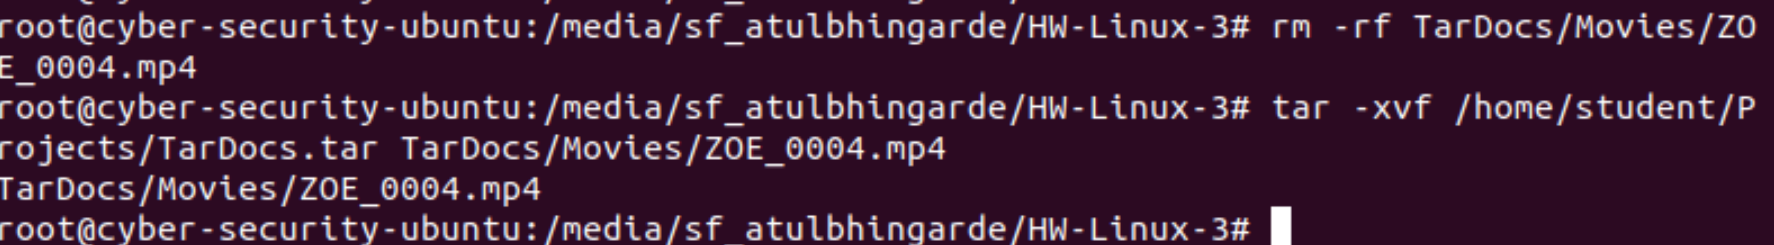
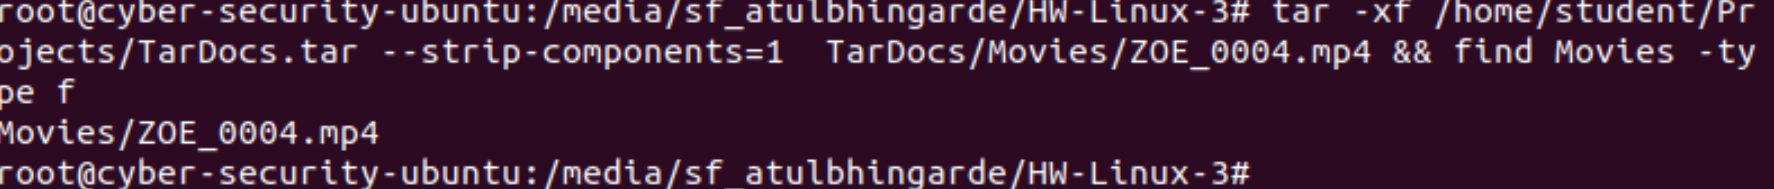
added few

diff --git a/Instructions/README.md b/Instructions/README.md
@@ -46,9 +46,11 @@ Work through the exercises below to understand `--strip-components`.
   - Use `--strip-components` to extract the `Movies` directory.
 	       _**assuming that the Movies directory needs to be extracted without TarDocs*_
         `tar -xvf /home/student/Projects/TarDocs.tar TarDocs/Movies --strip-components=1 && find Movies` 
-        ![tar command to extract movies folder without TarDocsÍ](extract_movies_folder.png)
+        ![tar command to extract movies folder without TarDocs](extract_movies_folder.png)
 
   - Use `--strip-components` to extract the `Movies/ZOE_0004.mp4` file.
+        `tar -xf /home/student/Projects/TarDocs.tar --strip-components=1  TarDocs/Movies/ZOE_0004.mp4  && find Movies -type f`
+        ![tar command to extract movies folder without TarDocs](extract_only_onefile.png)
 
 #### Modifying Archives
 You will often find yourself needing to add, remove, or update files from an existing tarball.

diff --git a/Instructions/Submission.md b/Instructions/Submission.md
@@ -7,7 +7,7 @@
   ![tar command to extract fles](extract_movies.png)
 
   - Extract `Movies/ZOE_0004.mp4`: `your command here`
-  ![tar command to extract only one file](extract_only_onefile.png)
+  ![tar command to extract only one file]ly_onefile.(extract_onpng)
   - Extract files from `TarDocs/Movies` without `TarDoc/Movies` structure
 
 #### Modifying Archives
